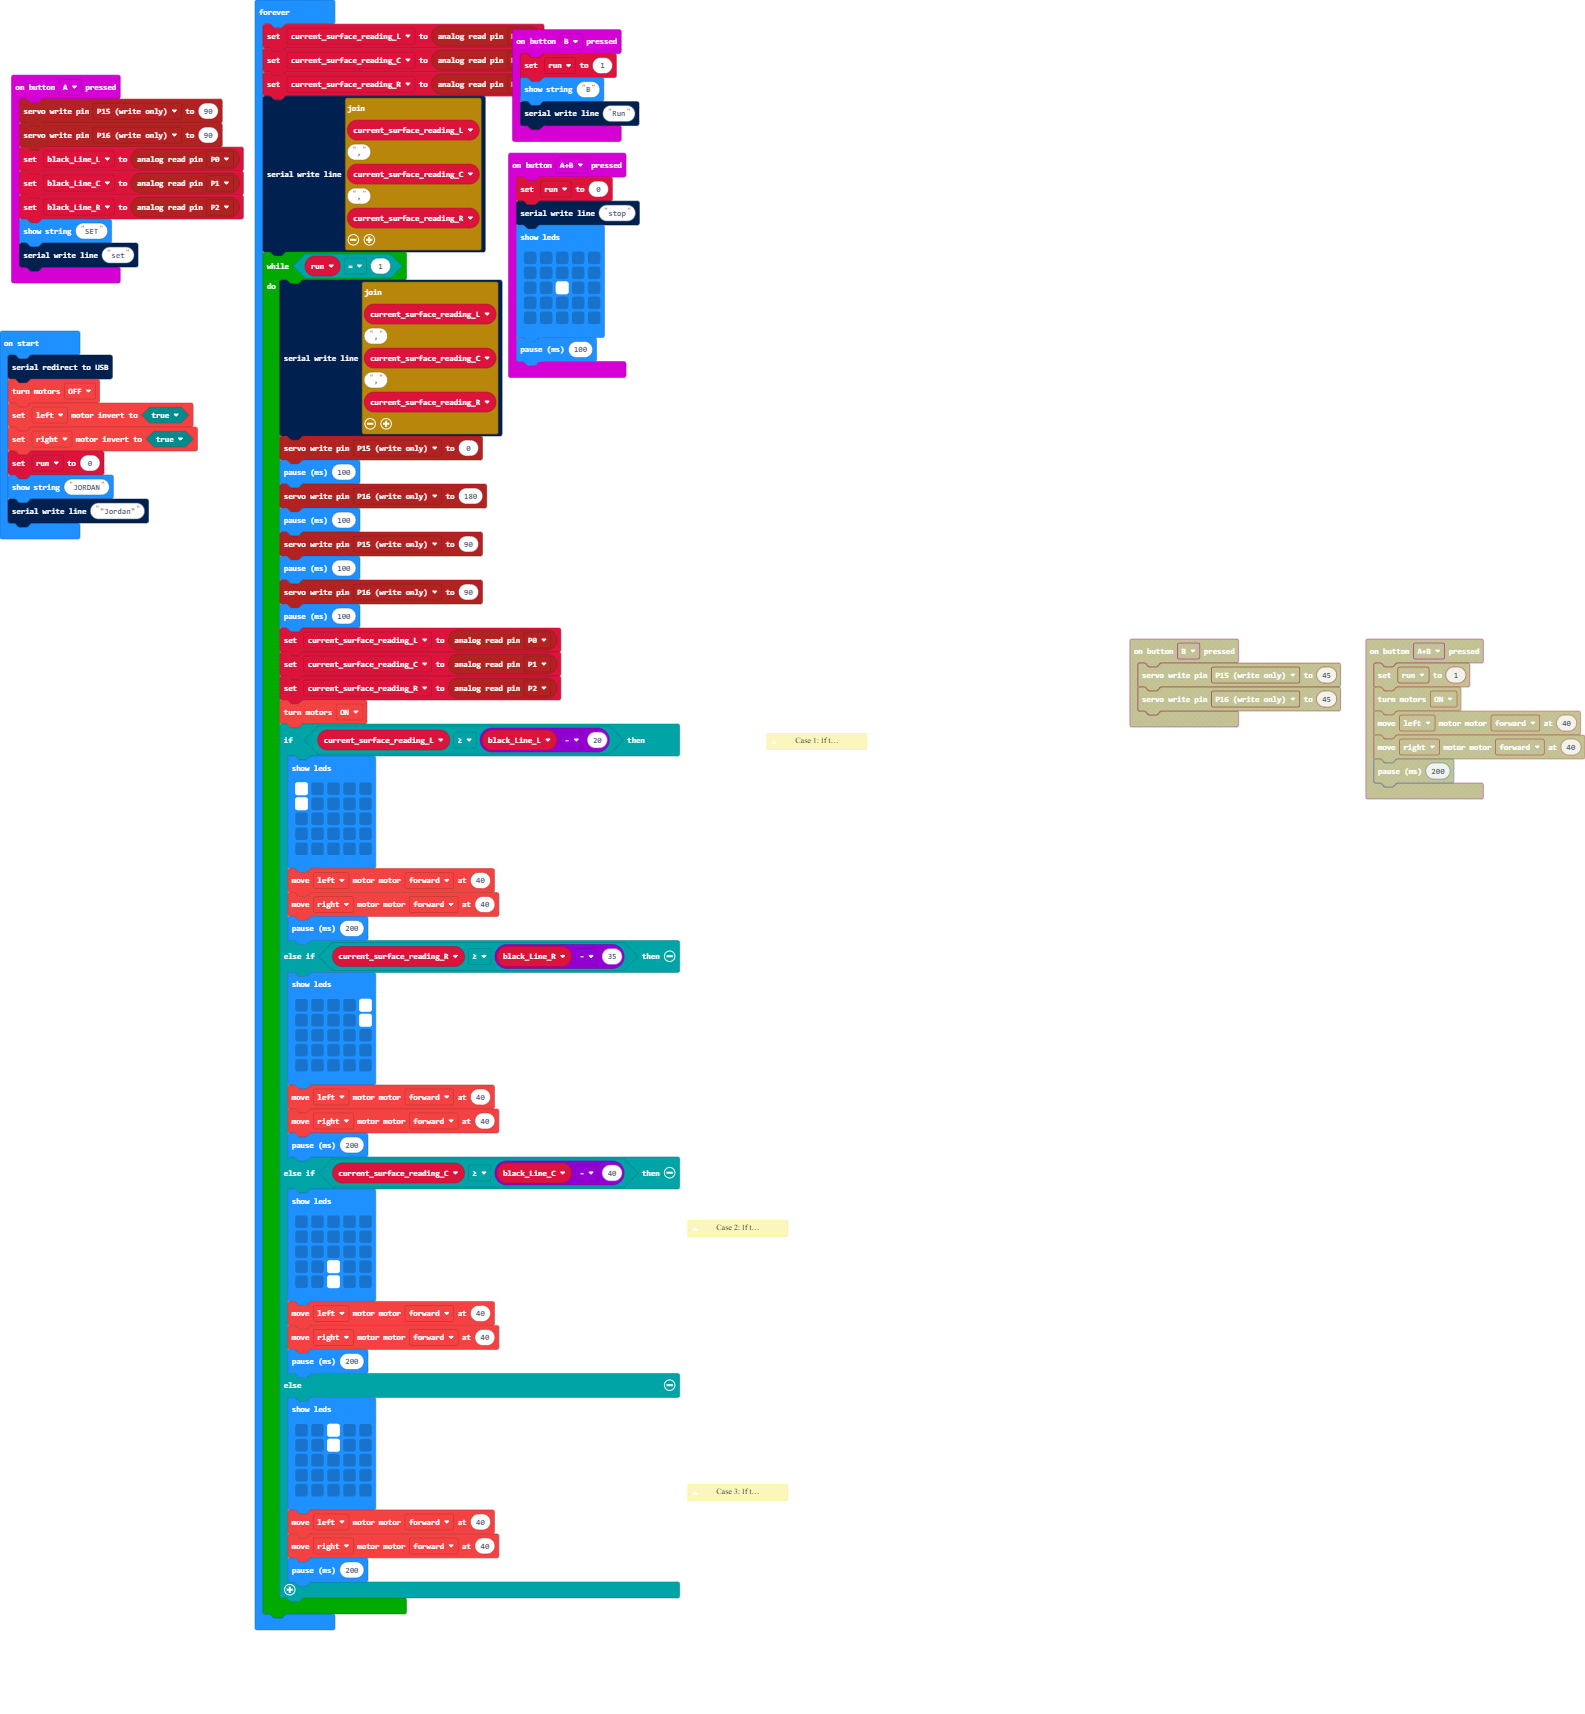
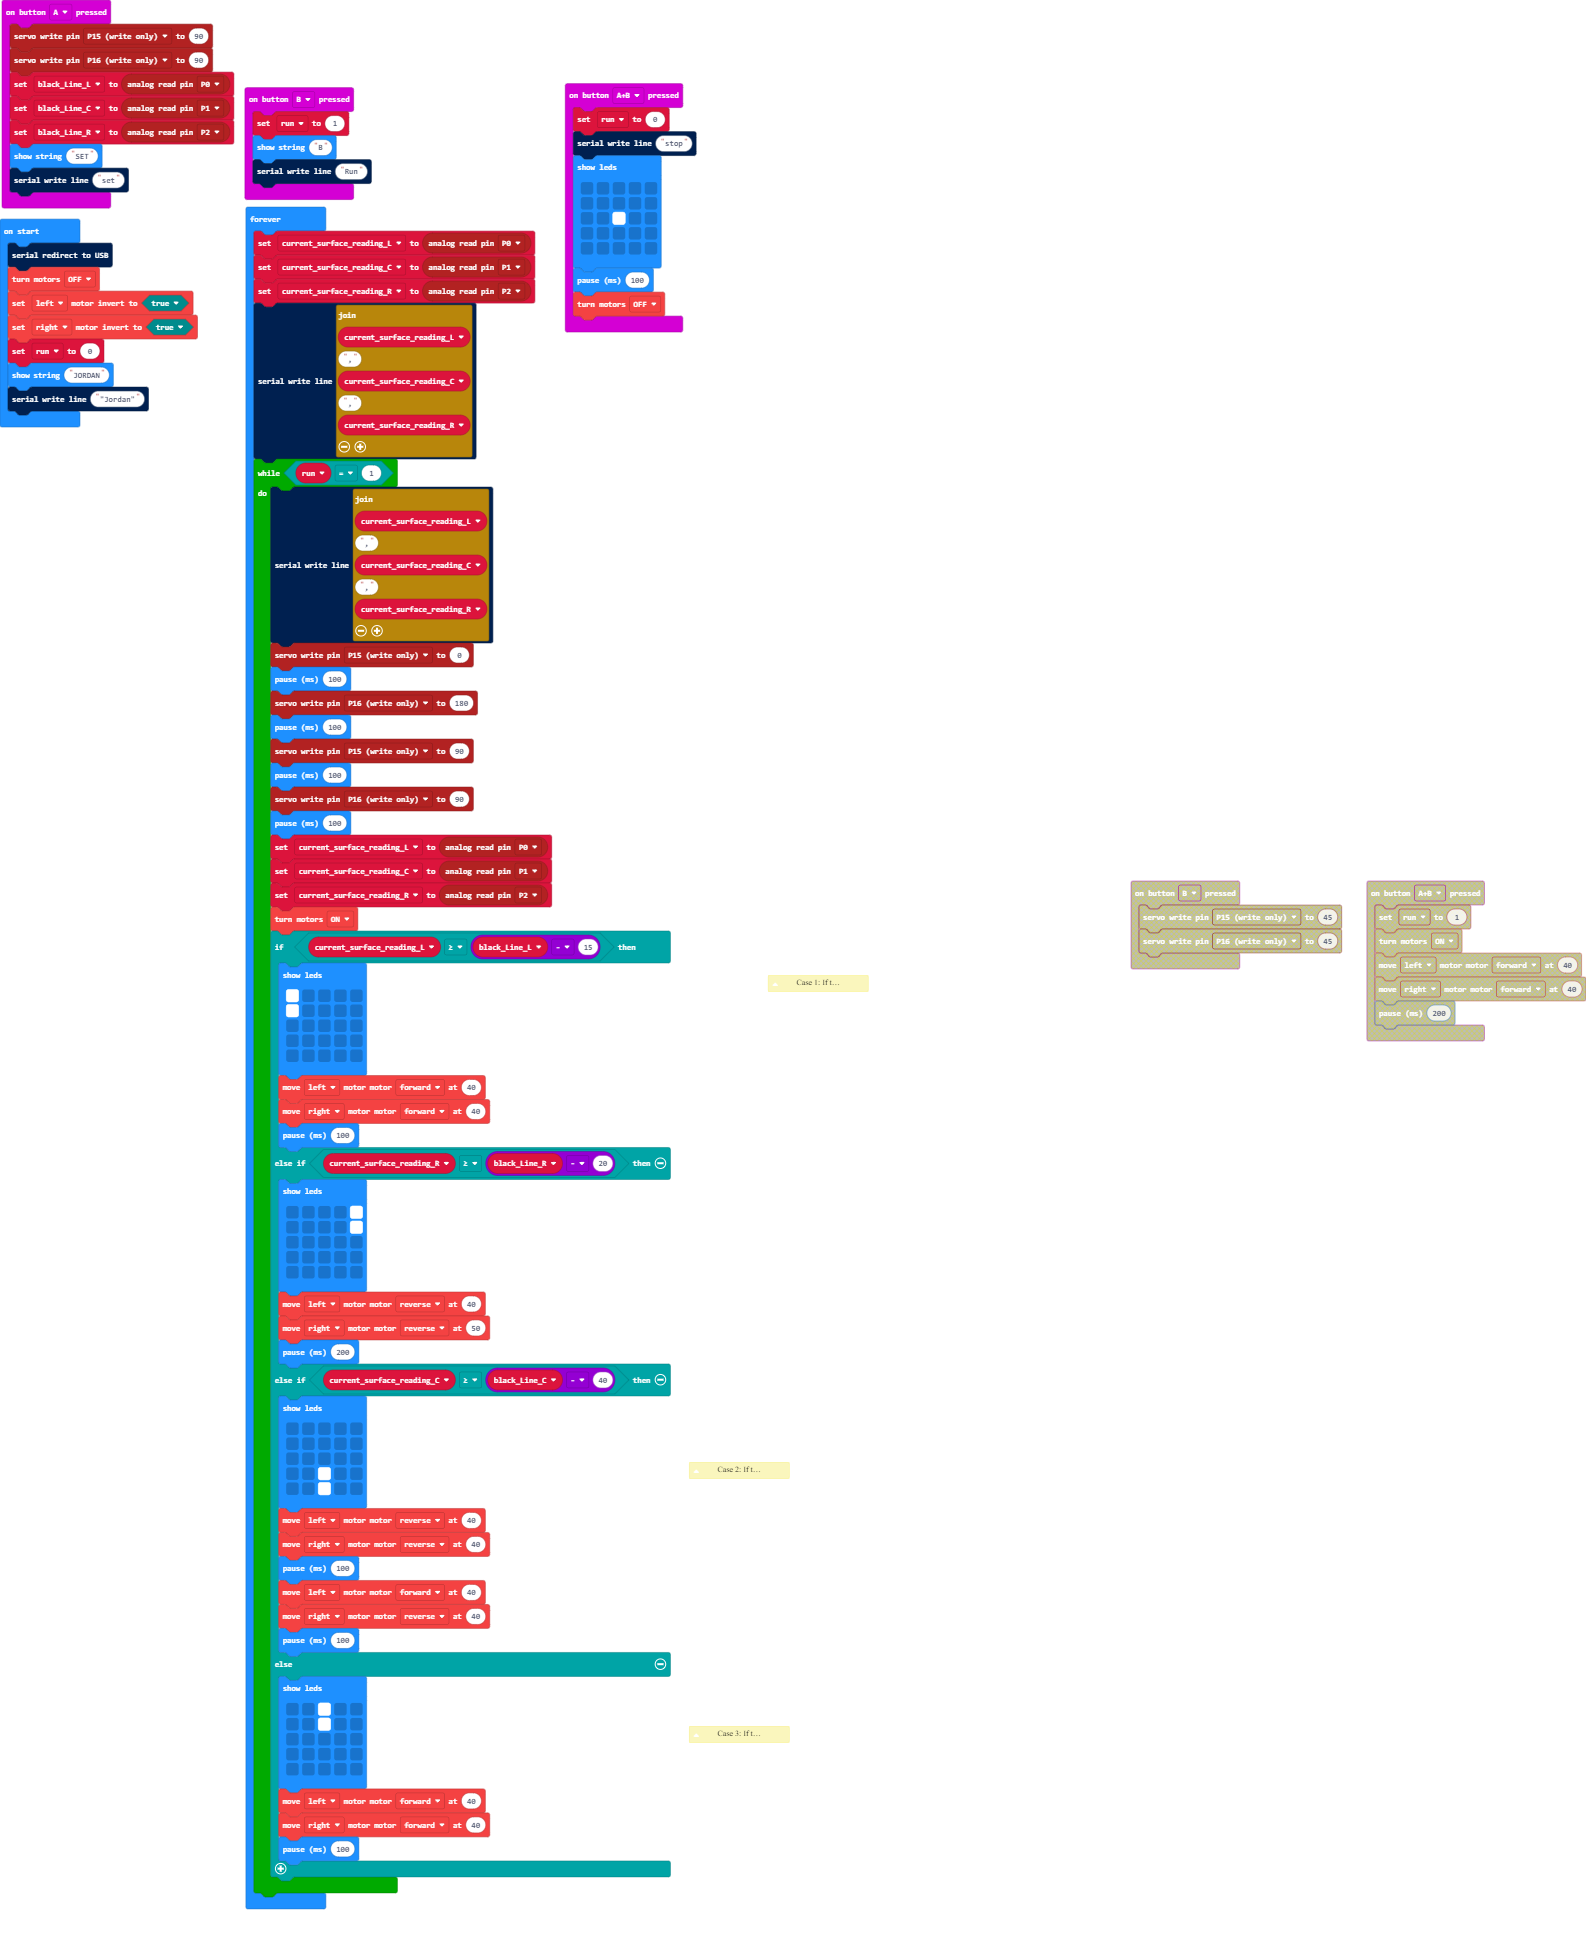
Update main.blocks, main.ts

diff --git a/main.ts b/main.ts
@@ -1,6 +1,12 @@
 /**
  * Case 1: If the center line following sensor sees a dark black line, move the servos before moving backward.
  */
+/**
+ * Case 2: If the left line following sensor sees a dark black line, move left servo before moving back and toward the right.
+ */
+/**
+ * Case 3: If the right line following sensor sees a dark black line, move right servo before moving back and toward the left.
+ */
 input.onButtonPressed(Button.A, function () {
     pins.servoWritePin(AnalogPin.P15, 90)
     pins.servoWritePin(AnalogPin.P16, 90)
@@ -21,6 +27,7 @@ input.onButtonPressed(Button.AB, function () {
         . . . . .
         `)
     basic.pause(100)
+    motobit.enable(MotorPower.Off)
 })
 input.onButtonPressed(Button.B, function () {
     run = 1
@@ -41,12 +48,6 @@ motobit.invert(Motor.Right, true)
 run = 0
 basic.showString("JORDAN")
 serial.writeLine("\"Jordan\"")
-/**
- * Case 2: If the left line following sensor sees a dark black line, move left servo before moving back and toward the right.
- */
-/**
- * Case 3: If the right line following sensor sees a dark black line, move right servo before moving back and toward the left.
- */
 basic.forever(function () {
     current_surface_reading_L = pins.analogReadPin(AnalogPin.P0)
     current_surface_reading_C = pins.analogReadPin(AnalogPin.P1)
@@ -66,7 +67,7 @@ basic.forever(function () {
         current_surface_reading_C = pins.analogReadPin(AnalogPin.P1)
         current_surface_reading_R = pins.analogReadPin(AnalogPin.P2)
         motobit.enable(MotorPower.On)
-        if (current_surface_reading_L >= black_Line_L - 20) {
+        if (current_surface_reading_L >= black_Line_L - 15) {
             basic.showLeds(`
                 # . . . .
                 # . . . .
@@ -76,8 +77,8 @@ basic.forever(function () {
                 `)
             motobit.setMotorSpeed(Motor.Left, MotorDirection.Forward, 40)
             motobit.setMotorSpeed(Motor.Right, MotorDirection.Forward, 40)
-            basic.pause(200)
-        } else if (current_surface_reading_R >= black_Line_R - 35) {
+            basic.pause(100)
+        } else if (current_surface_reading_R >= black_Line_R - 20) {
             basic.showLeds(`
                 . . . . #
                 . . . . #
@@ -85,8 +86,8 @@ basic.forever(function () {
                 . . . . .
                 . . . . .
                 `)
-            motobit.setMotorSpeed(Motor.Left, MotorDirection.Forward, 40)
-            motobit.setMotorSpeed(Motor.Right, MotorDirection.Forward, 40)
+            motobit.setMotorSpeed(Motor.Left, MotorDirection.Reverse, 40)
+            motobit.setMotorSpeed(Motor.Right, MotorDirection.Reverse, 50)
             basic.pause(200)
         } else if (current_surface_reading_C >= black_Line_C - 40) {
             basic.showLeds(`
@@ -96,9 +97,12 @@ basic.forever(function () {
                 . . # . .
                 . . # . .
                 `)
+            motobit.setMotorSpeed(Motor.Left, MotorDirection.Reverse, 40)
+            motobit.setMotorSpeed(Motor.Right, MotorDirection.Reverse, 40)
+            basic.pause(100)
             motobit.setMotorSpeed(Motor.Left, MotorDirection.Forward, 40)
-            motobit.setMotorSpeed(Motor.Right, MotorDirection.Forward, 40)
-            basic.pause(200)
+            motobit.setMotorSpeed(Motor.Right, MotorDirection.Reverse, 40)
+            basic.pause(100)
         } else {
             basic.showLeds(`
                 . . # . .
@@ -109,7 +113,7 @@ basic.forever(function () {
                 `)
             motobit.setMotorSpeed(Motor.Left, MotorDirection.Forward, 40)
             motobit.setMotorSpeed(Motor.Right, MotorDirection.Forward, 40)
-            basic.pause(200)
+            basic.pause(100)
         }
     }
 })
